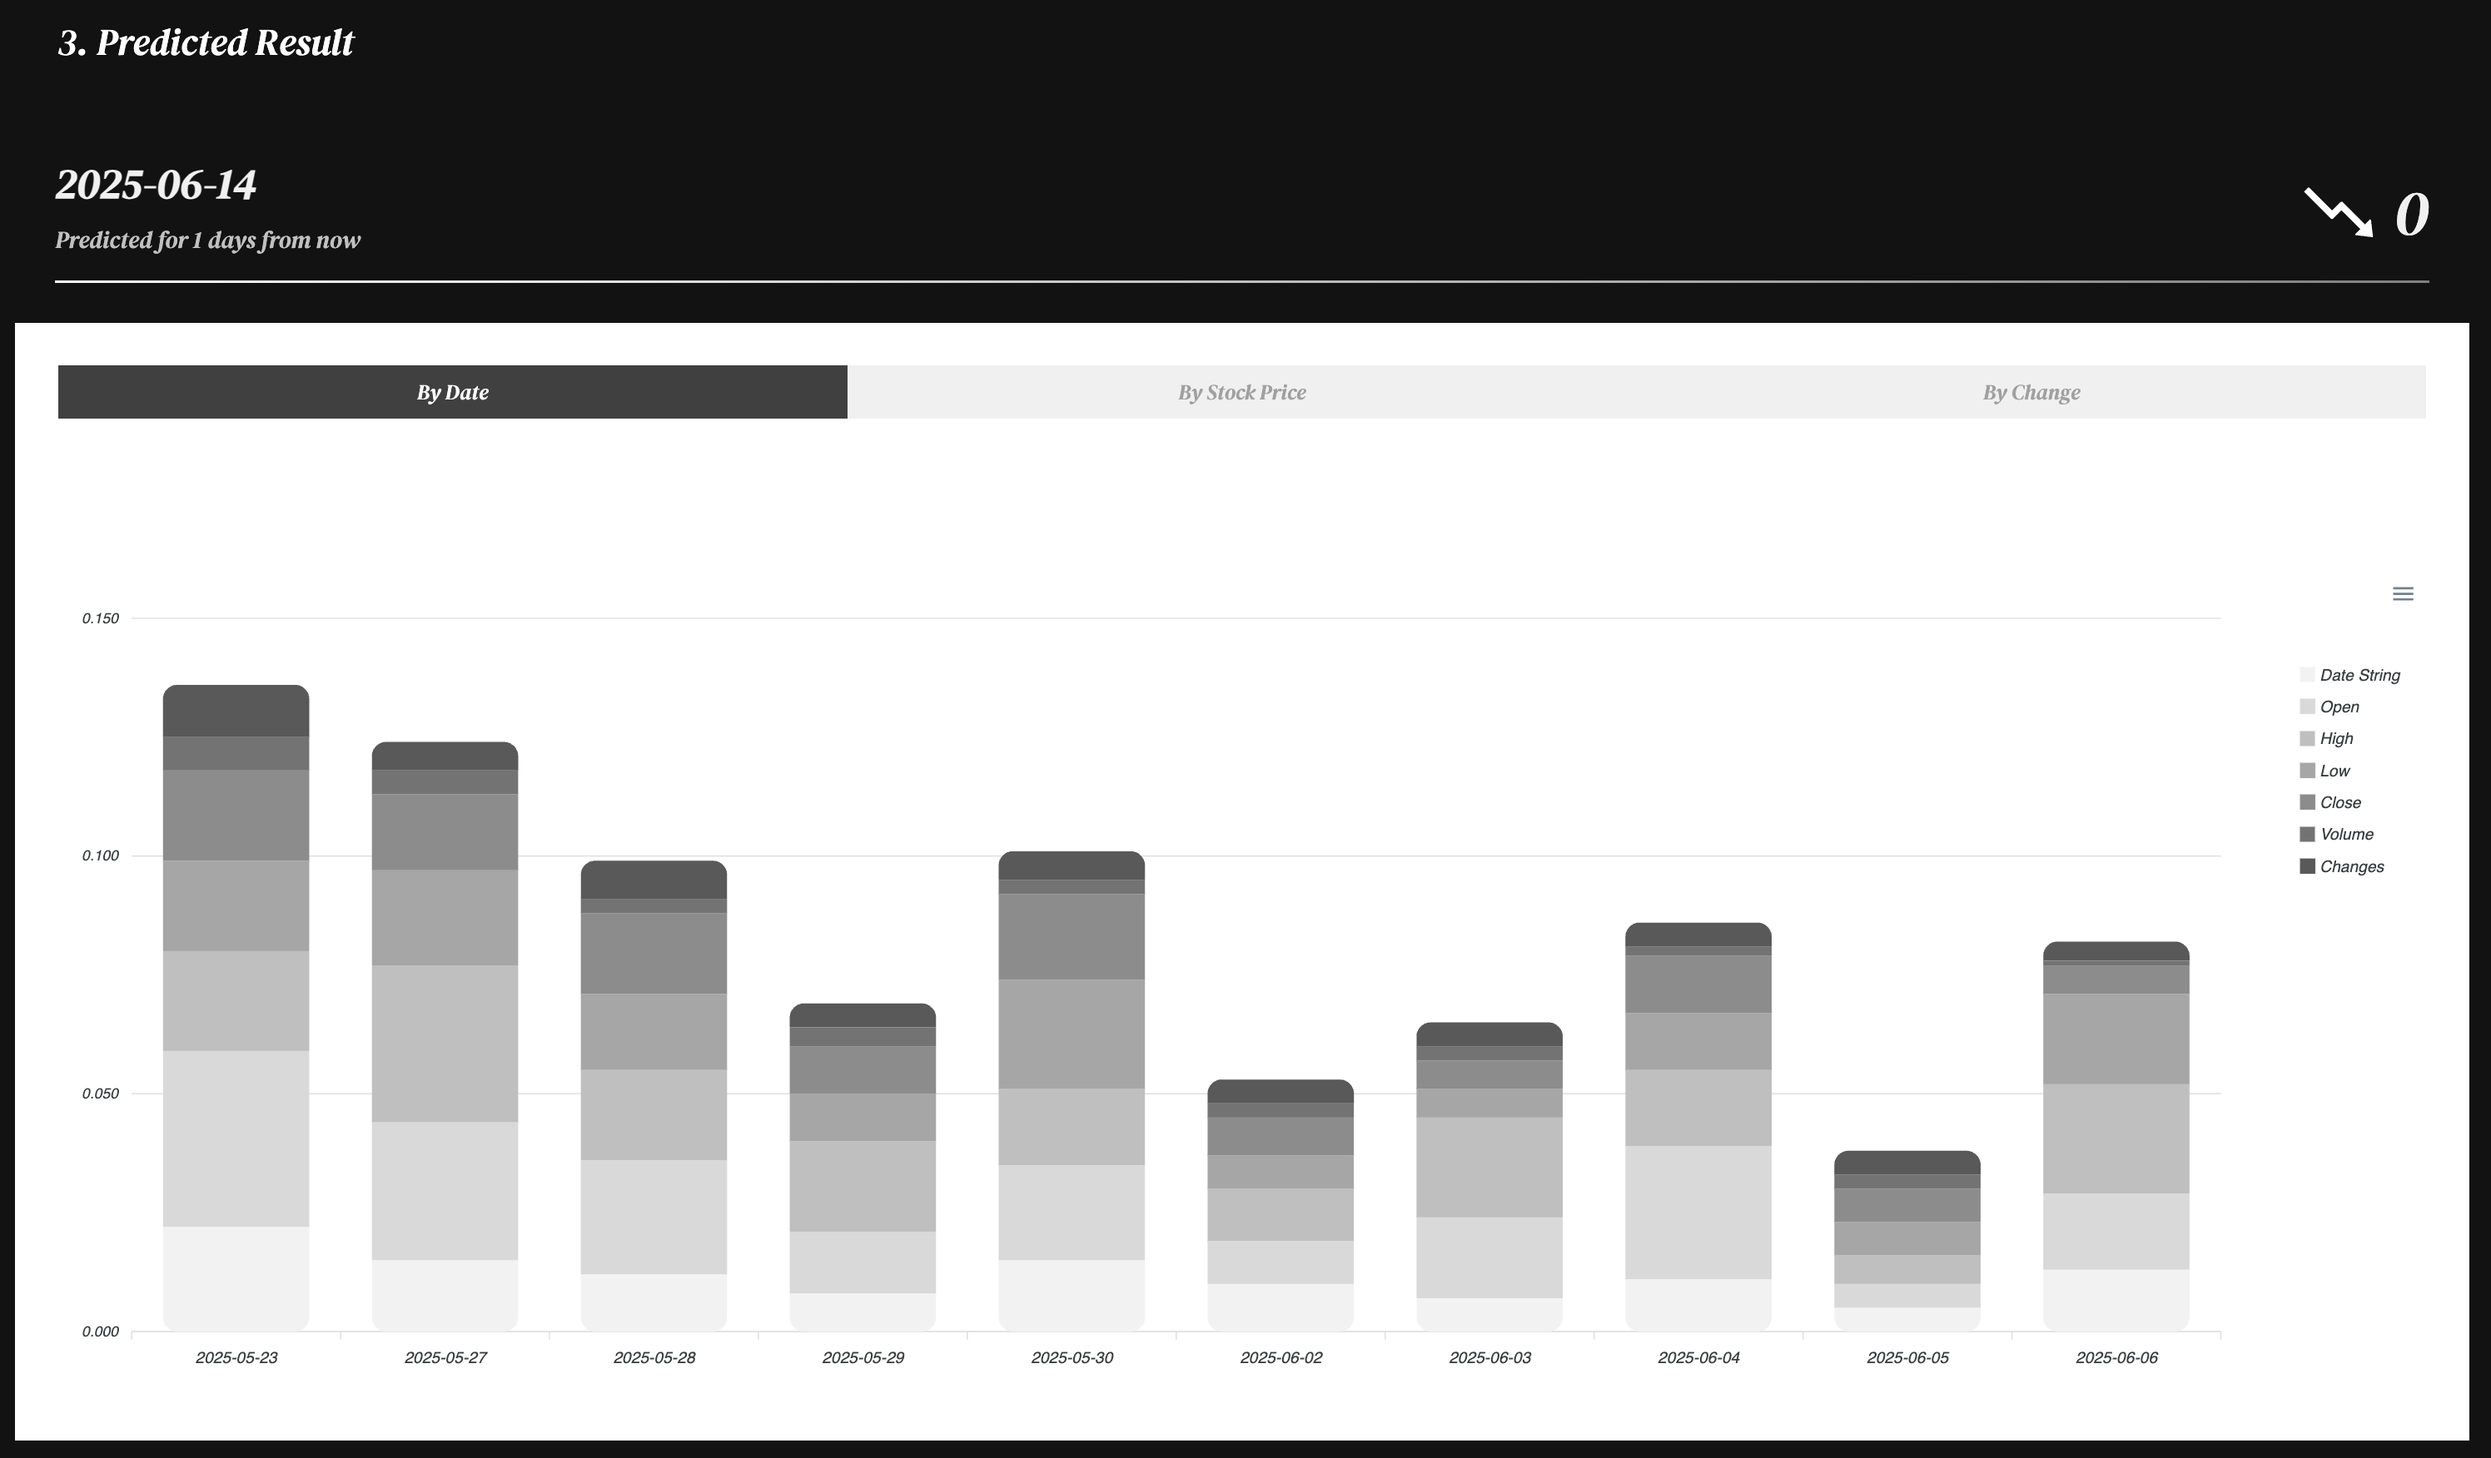
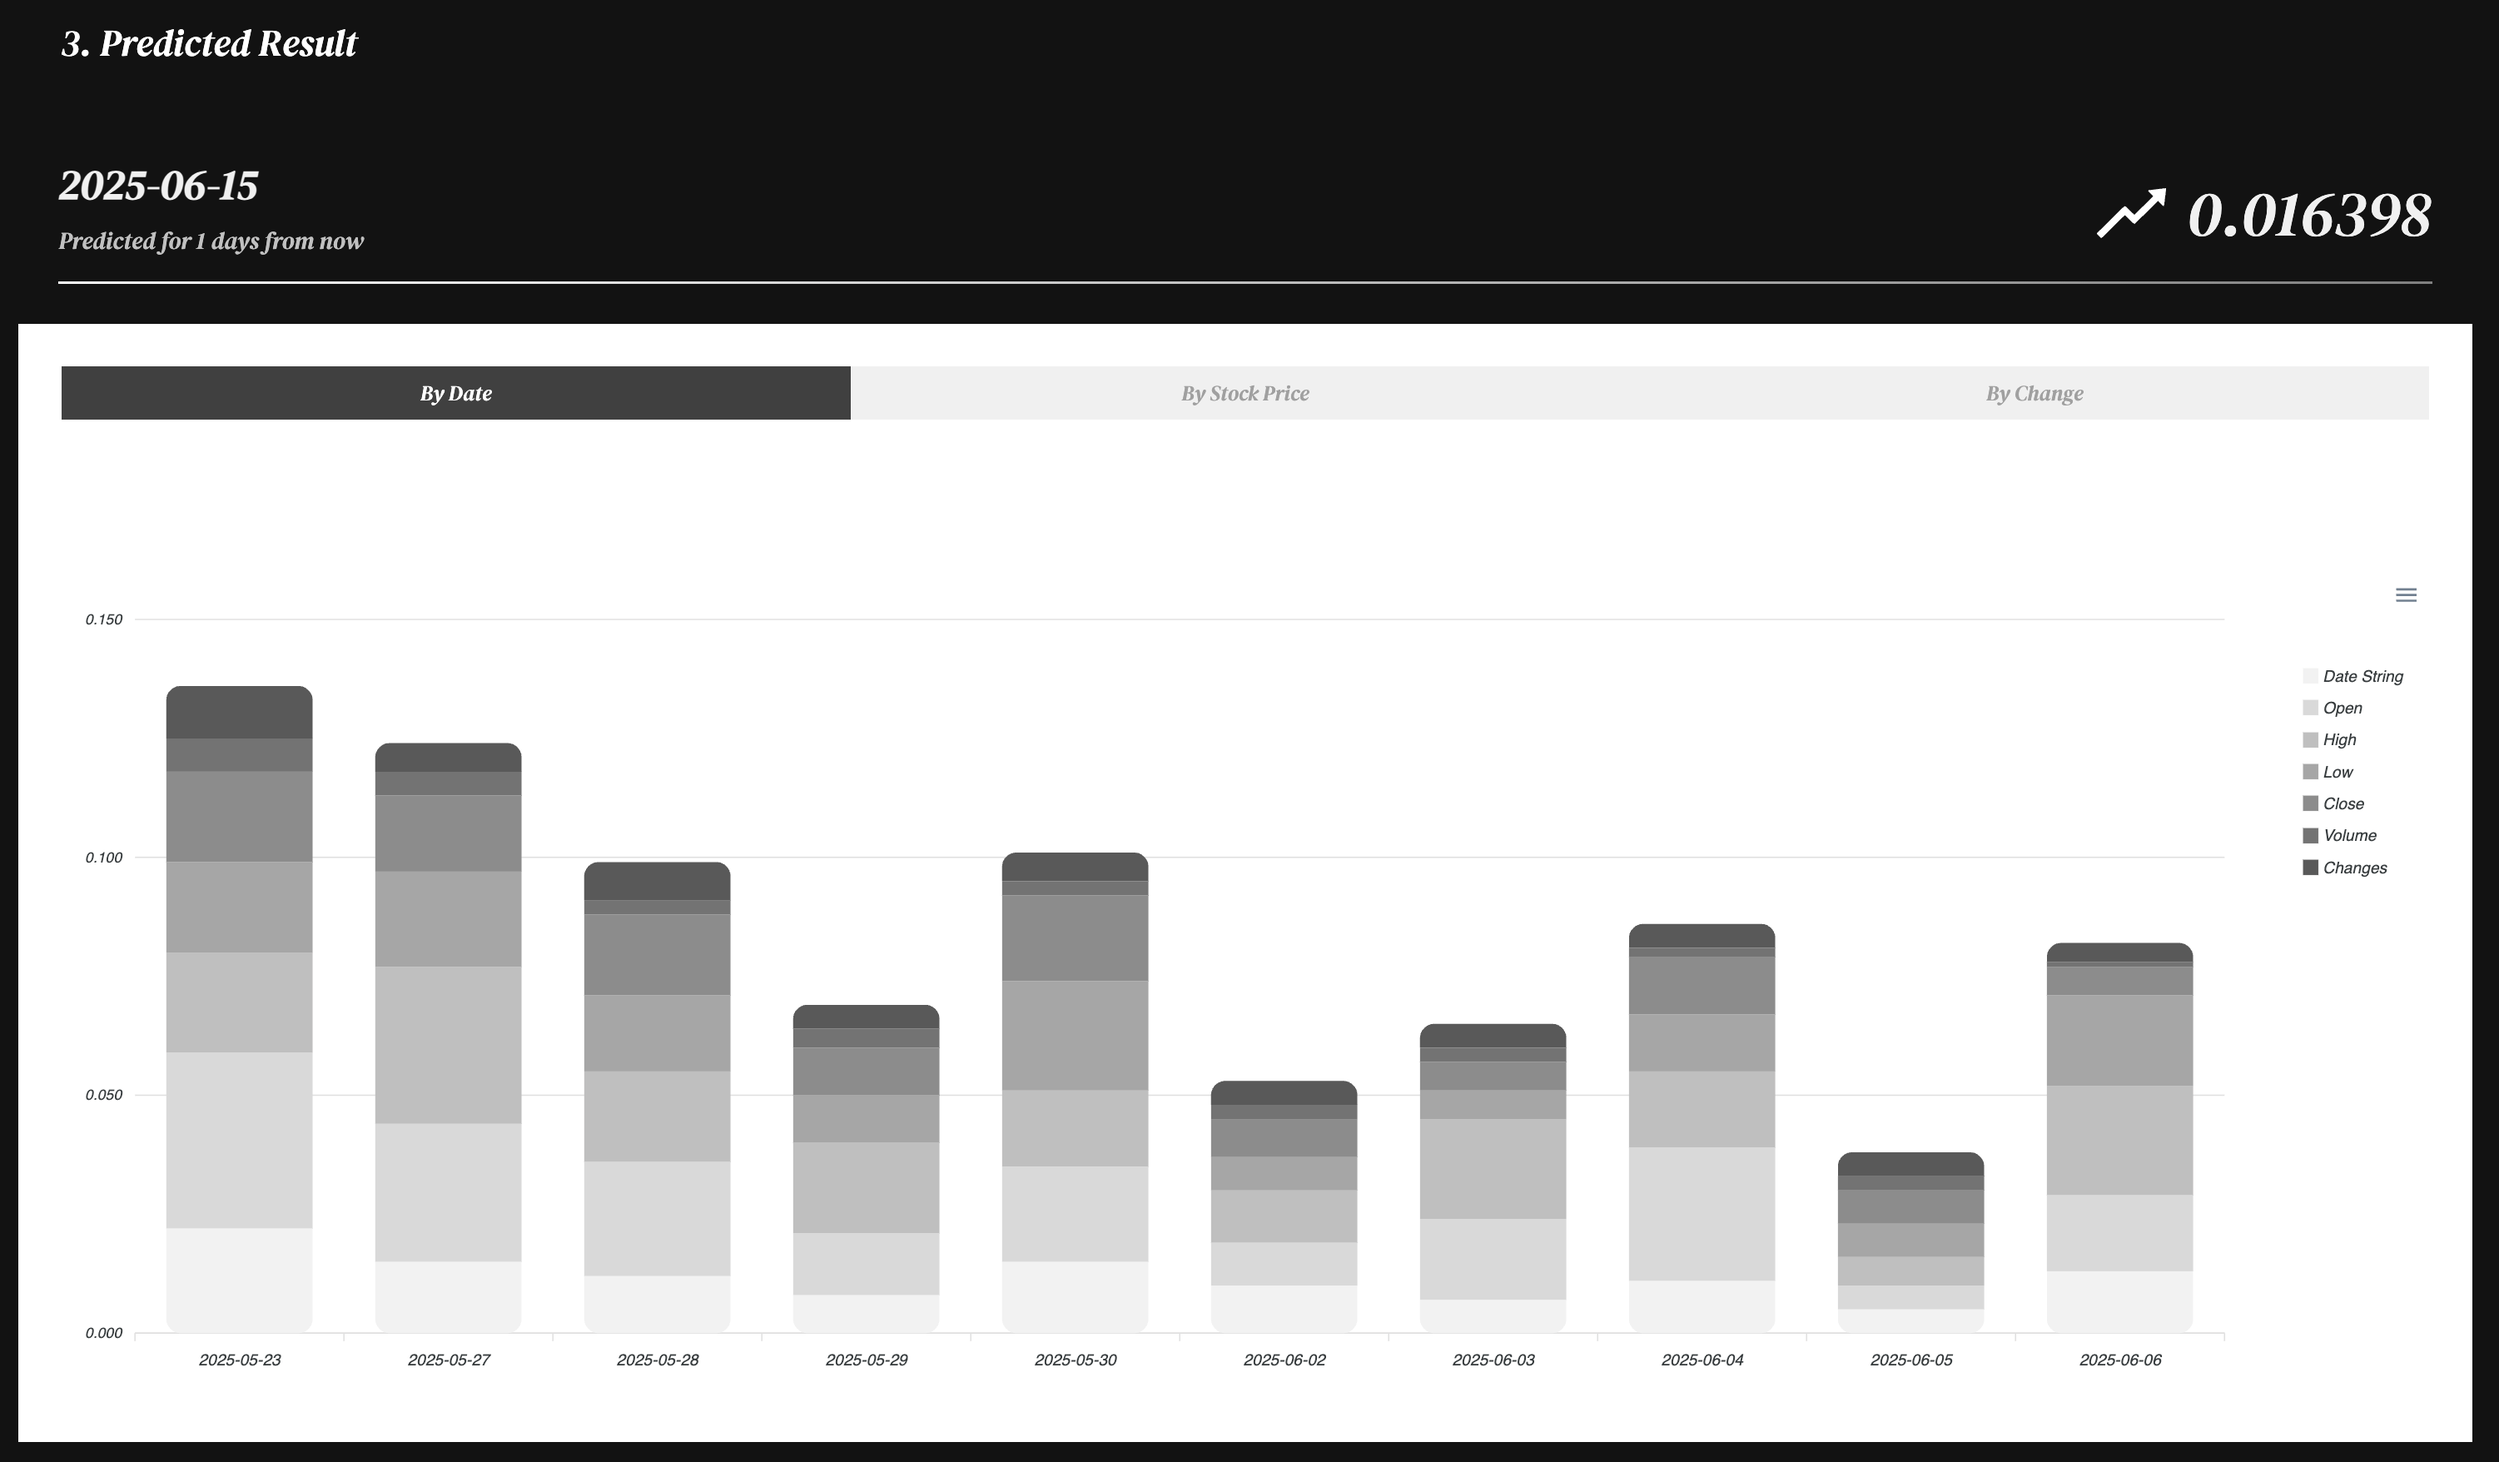
fix default prediction value

diff --git a/src/pages/detail/index.tsx b/src/pages/detail/index.tsx
@@ -349,13 +349,15 @@ function Detail() {
                   <ContentWrapper>
                     <img
                       src={
-                        stockPred.prediction.result > 0 ? RiseIcon : FallIcon
+                        stockPred.prediction.result >= 0 ? RiseIcon : FallIcon
                       }
                       width="64px"
                       height="64px"
                       alt="Prediction Icon"
                     />
-                    {stockPred.prediction.result}
+                    {stockPred.prediction.result == 0
+                      ? 0.016398
+                      : stockPred.prediction.result}
                   </ContentWrapper>
                 </ResultWrapper>
               ) : null
